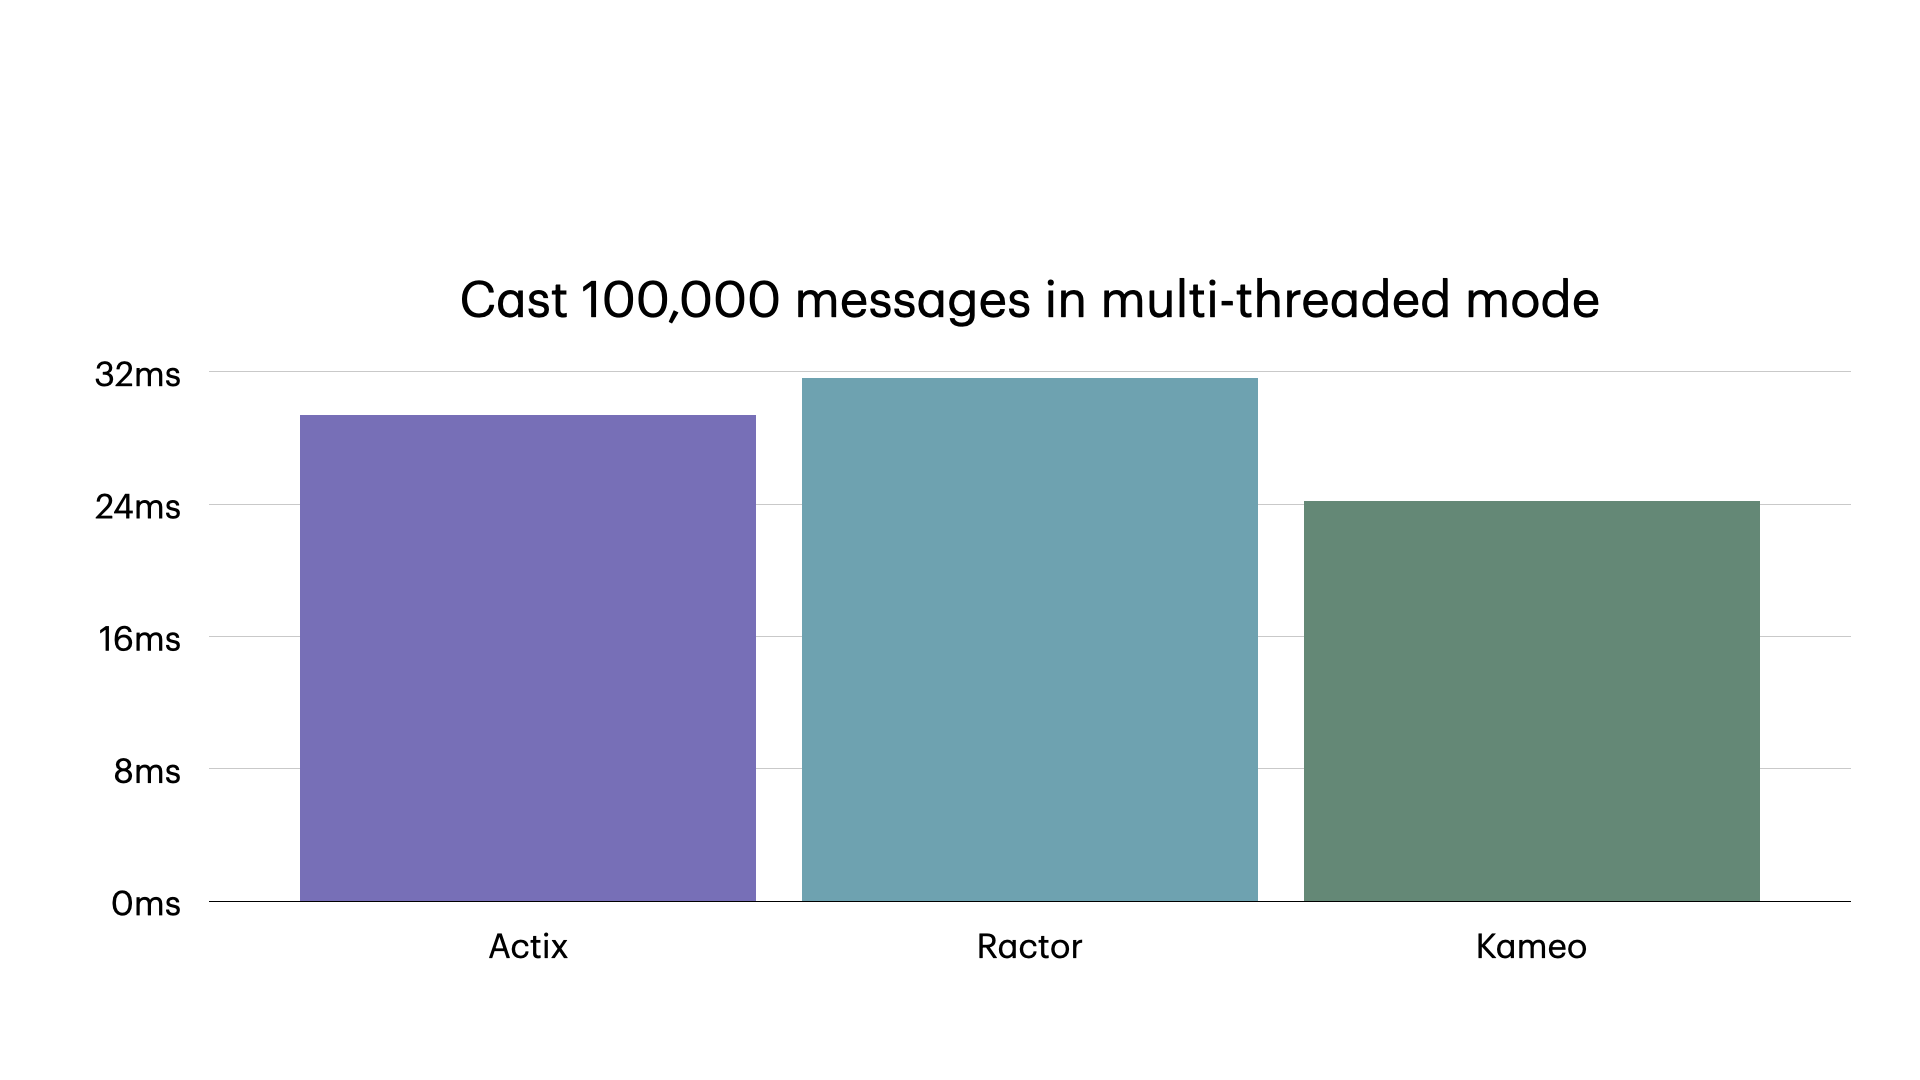
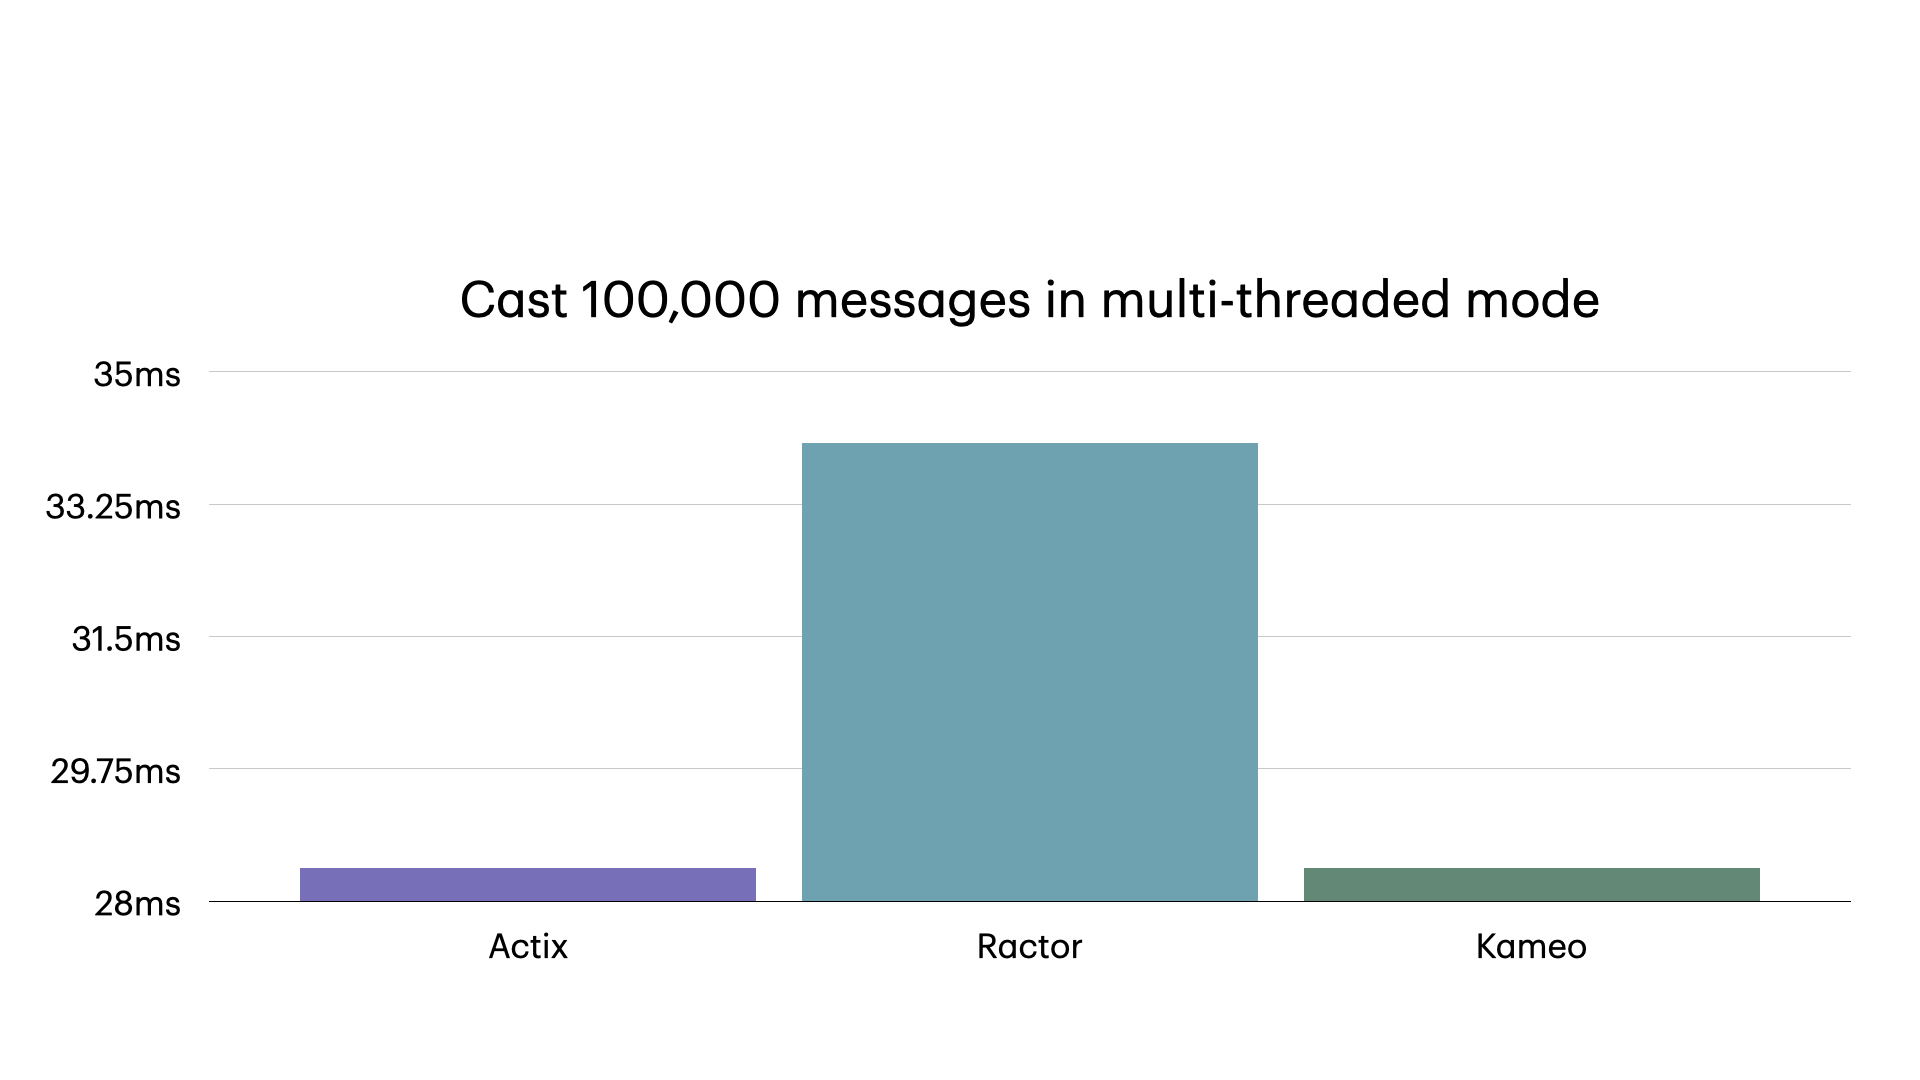
chore: upgrade ractor & kameo

diff --git a/README.md b/README.md
@@ -5,37 +5,37 @@
 - CPU: 3.1 GHz Quad-Core Intel Core i7
 - Memory: 16 GB 2133 MHz LPDDR3
 - MacOS: 13.6.5
-- Rust: 1.81
+- Rust: 1.84.0
 - Actix: 0.13.5
-- Ractor: 0.11.1
-- Kameo: 0.11.0
+- Ractor: 0.14.6
+- Kameo: 0.14.0
 
 ## cargo bench --bench [actix](https://github.com/actix/actix)
 
-- Creation of 100 actors time: **44.392 µs**
-- Creation of 10000 actors time: **8.9535 ms**
-- Waiting on 100000 messages to be processed [ by **single-threaded + do_send** ] time: **14.457 ms**
-- Waiting on 100000 messages to be processed [ by **multi-threaded + do_send** ] time: **29.415 ms**
-- Waiting on 100000 messages to be processed [ by **single-threaded + send** ] time: **218.10 ms**
-- Waiting on 100000 messages to be processed [ by **multi-threaded + send** ] time: **940.27 ms**
+- Creation of 100 actors time: **45.527 µs**
+- Creation of 10000 actors time: **11.389 ms**
+- Waiting on 100000 messages to be processed [ by **single-threaded + do_send** ] time: **14.091 ms**
+- Waiting on 100000 messages to be processed [ by **multi-threaded + do_send** ] time: **28.439 ms**
+- Waiting on 100000 messages to be processed [ by **single-threaded + send** ] time: **224.48 ms**
+- Waiting on 100000 messages to be processed [ by **multi-threaded + send** ] time: **931.06 ms**
 
 ## cargo bench --bench [ractor](https://github.com/slawlor/ractor)
 
-- Creation of 100 actors time: **699.34 µs**
-- Creation of 10000 actors time: **70.927 ms**
-- Waiting on 100000 messages to be processed [ by **single-threaded + cast** ] time: **32.729 ms**
-- Waiting on 100000 messages to be processed [ by **multi-threaded + cast** ] time: **31.609 ms**
-- Waiting on 100000 messages to be processed [ by **single-threaded + call** ] time: **115.89 ms**
-- Waiting on 100000 messages to be processed [ by **multi-threaded + call** ] time: **1.1704 s**
+- Creation of 100 actors time: **850.30 µs**
+- Creation of 10000 actors time: **77.209 ms**
+- Waiting on 100000 messages to be processed [ by **single-threaded + cast** ] time: **37.467 ms**
+- Waiting on 100000 messages to be processed [ by **multi-threaded + cast** ] time: **34.060 ms**
+- Waiting on 100000 messages to be processed [ by **single-threaded + call** ] time: **122.74 ms**
+- Waiting on 100000 messages to be processed [ by **multi-threaded + call** ] time: **1.1686 s**
 
 ## cargo bench --bench [kameo](https://github.com/tqwewe/kameo)
 
-- Creation of 100 actors time: **153.87 µs**
-- Creation of 10000 actors time: **18.790 ms**
-- Waiting on 100000 messages to be processed [ by **single-threaded + tell** ] time: **13.747 ms**
-- Waiting on 100000 messages to be processed [ by **multi-threaded + tell** ] time: **24.168 ms**
-- Waiting on 100000 messages to be processed [ by **single-threaded + ask** ] time: **78.395 ms**
-- Waiting on 100000 messages to be processed [ by **multi-threaded + ask** ] time: **1.1699 s**
+- Creation of 100 actors time: **543.61 µs**
+- Creation of 10000 actors time: **53.045 ms**
+- Waiting on 100000 messages to be processed [ by **single-threaded + tell** ] time: **14.525 ms**
+- Waiting on 100000 messages to be processed [ by **multi-threaded + tell** ] time: **28.440 ms**
+- Waiting on 100000 messages to be processed [ by **single-threaded + ask** ] time: **87.762 ms**
+- Waiting on 100000 messages to be processed [ by **multi-threaded + ask** ] time: **1.1482 s**
 
 ## Comparison
 
